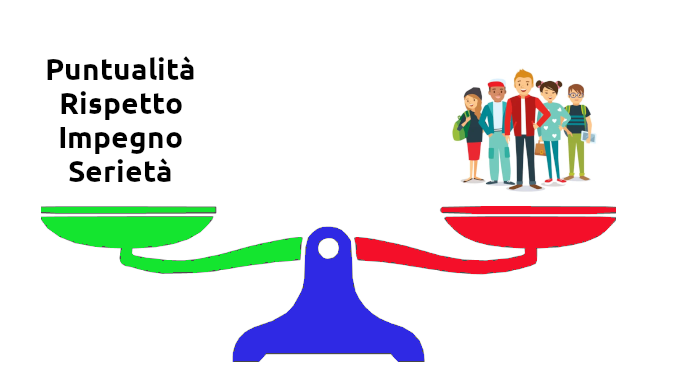
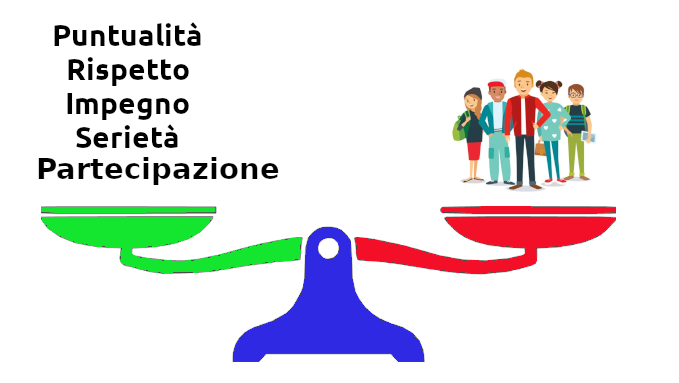
- aggiornamento slide "camminiamo insieme"

Changed region(s): [[0.0309, 0.0574, 0.433, 0.4883]]

diff --git a/slides/regole/regole_slides.md b/slides/regole/regole_slides.md
@@ -14,8 +14,8 @@ aspectRatio: "16_/9"
 routerMode: "hash"
 download: true
 materia: MISC
-as: 2022/2023
-version: "1.0.3"
+as: 2024/2025
+version: "1.1.0"
 ---
 
 # ITT Informatica - prof. Mancuso
@@ -33,17 +33,22 @@ Camminiamo insieme
 
 <img src="/media/regole00w.jpg" style="margin: auto; width:80%;">
 
+---
+
+# Camminiamo insieme
+
+&nbsp;
+
+
+<img src="/media/regole11.png" style="margin: auto; margin-top:-40px" width=450>
 
 ---
 
 # Regolamento
 
-<br><br>
-
-<div style="background:green; color: yellow; padding: 2rem; font-size: 3rem; line-height: 4rem;">
-In tutte le mie lezioni e laboratori vige il regolamento d'istituto che ogni studente è tenuto a conoscere e rispettare!!!
-</div>
-  
+<Banner padding=50px mt=50px>
+<span style="font-size:30px;">In tutte le mie lezioni e laboratori vige il regolamento d'istituto che ogni studente è tenuto a conoscere e rispettare!!!</span>
+</Banner>  
 
 ---
 
@@ -71,14 +76,15 @@ Ricerca dell'equilibrio
 
 Cellulare
 
-- Il cellulare NON si usa durante le lezioni e le esercitazioni se non richiesto dal docente
-- Il cellulare rimane spento nello zaino
+- Il cellulare `NON` si usa durante le lezioni e le esercitazioni se non esplicitamente richiesto dal docente
+- Il cellulare rimane `spento` o in `modalità aereo` 
+- Il cellulare si ripone nell'apposita tasca, o se assente, nel proprio zaino o equivalente
 - In caso contrario il cellulare viene sequestrato e portato in presidenza
-- **Io non userò mai il cellulare durante una lezione per scopi personali**
+- `Io non userò mai il cellulare durante una lezione per scopi personali`
 
 <br>
 <br>
-<img src="/media/regole03.png" width="200" style="margin: auto;">
+<img src="/media/regole03.png" width="180" style="margin: auto;">
 
 ---
 
@@ -86,9 +92,9 @@ Cellulare
 
 Compiti ed esercitazioni
 
-- I compiti assegnati vanno SEMPRE svolti
-- I compiti sono assegnati per permettervi di migliorarvi e di andare avanti nel vostro percorso di apprendimento
-- **Io correggerò sempre i vostri compiti e vi fornirò un feedback costruttivo**
+- I compiti assegnati vanno `SEMPRE` svolti
+- I compiti sono assegnati per permettere di migliorarvi e di andare avanti nel vostro percorso di apprendimento
+- `Io correggerò sempre i vostri compiti e vi fornirò un feedback costruttivo`
 
 <br>
 <br>
@@ -101,11 +107,12 @@ Compiti ed esercitazioni
 Puntualità
 
 - Essere puntuali è segno di precisione, di mente logica e di rispetto per il prossimo
-- **Io sarò sempre puntuale nei vostri confronti**
+- Si entra in classe un attimo prima dell'inizio della lezione o comunque del docente
+- La puntualità è necessaria sia ad inizio lezione che dopo l'intervallo
+- `Io sarò sempre puntuale nei vostri confronti (lezioni, compiti, verifiche, progetti, PCTO, ....)`
 
 <br>
-<br>
-<img src="/media/regole05.png" width="300" style="margin: auto;">
+<img src="/media/regole05.png" width="250" style="margin: auto;">
 
 
 ---
@@ -117,11 +124,30 @@ Rispetto ed onestà
 - Solide relazioni si basano sul rispetto reciproco e sull'onestà
 - I compiti li svolgo io di mio pugno perchè sono utili per me e non per fare contento il professore
 - La verifica la svolgo io di mio pugno senza copiare perchè mi permette di mettermi alla prova e crescere
-- **Io sarò sempre onesto e trasparente nei vostri confronti**
+- `Io sarò sempre onesto e trasparente nei vostri confronti`
 
 <br>
 <br>
 <img src="/media/regole06.png" width="250" style="margin: auto;">
+
+---
+
+# Camminiamo insieme
+
+ChatGPT
+
+- `ChatGPT` ed affini sono strumenti sofisticati, utili e formidabili
+- Come tutti gli strumenti,  ChatGPT non è *buona* o *cattiva* di per se, ma lo diventano in funzione dell'uso che ne facciamo
+- Io `INCORAGGIO` l'uso consapevole,sensato e `ATTIVO` di ChatGPT come sturmento di apprendimento, di perfezionamento e di accrescimento del sapere personale
+  - Gli parlo, mi faccio spiegare un concetto che non ho capito bene a lezione
+  - Esploro nuovi concetti che non ho visto a scuola
+  - Studio e apprendo da chatGPT
+  - ...
+- Io `SCORAGGIO` l'uso `PASSIVO` di ChatGPT
+  - Mi faccio fare il compito in 2 minuti così ho finito tanto il prof. non se ne accorge
+  - Copio beceramente quello che mi dice ChatGPT senza usare il mio cervello e il senso critico
+  - ...
+
 
 ---
 
